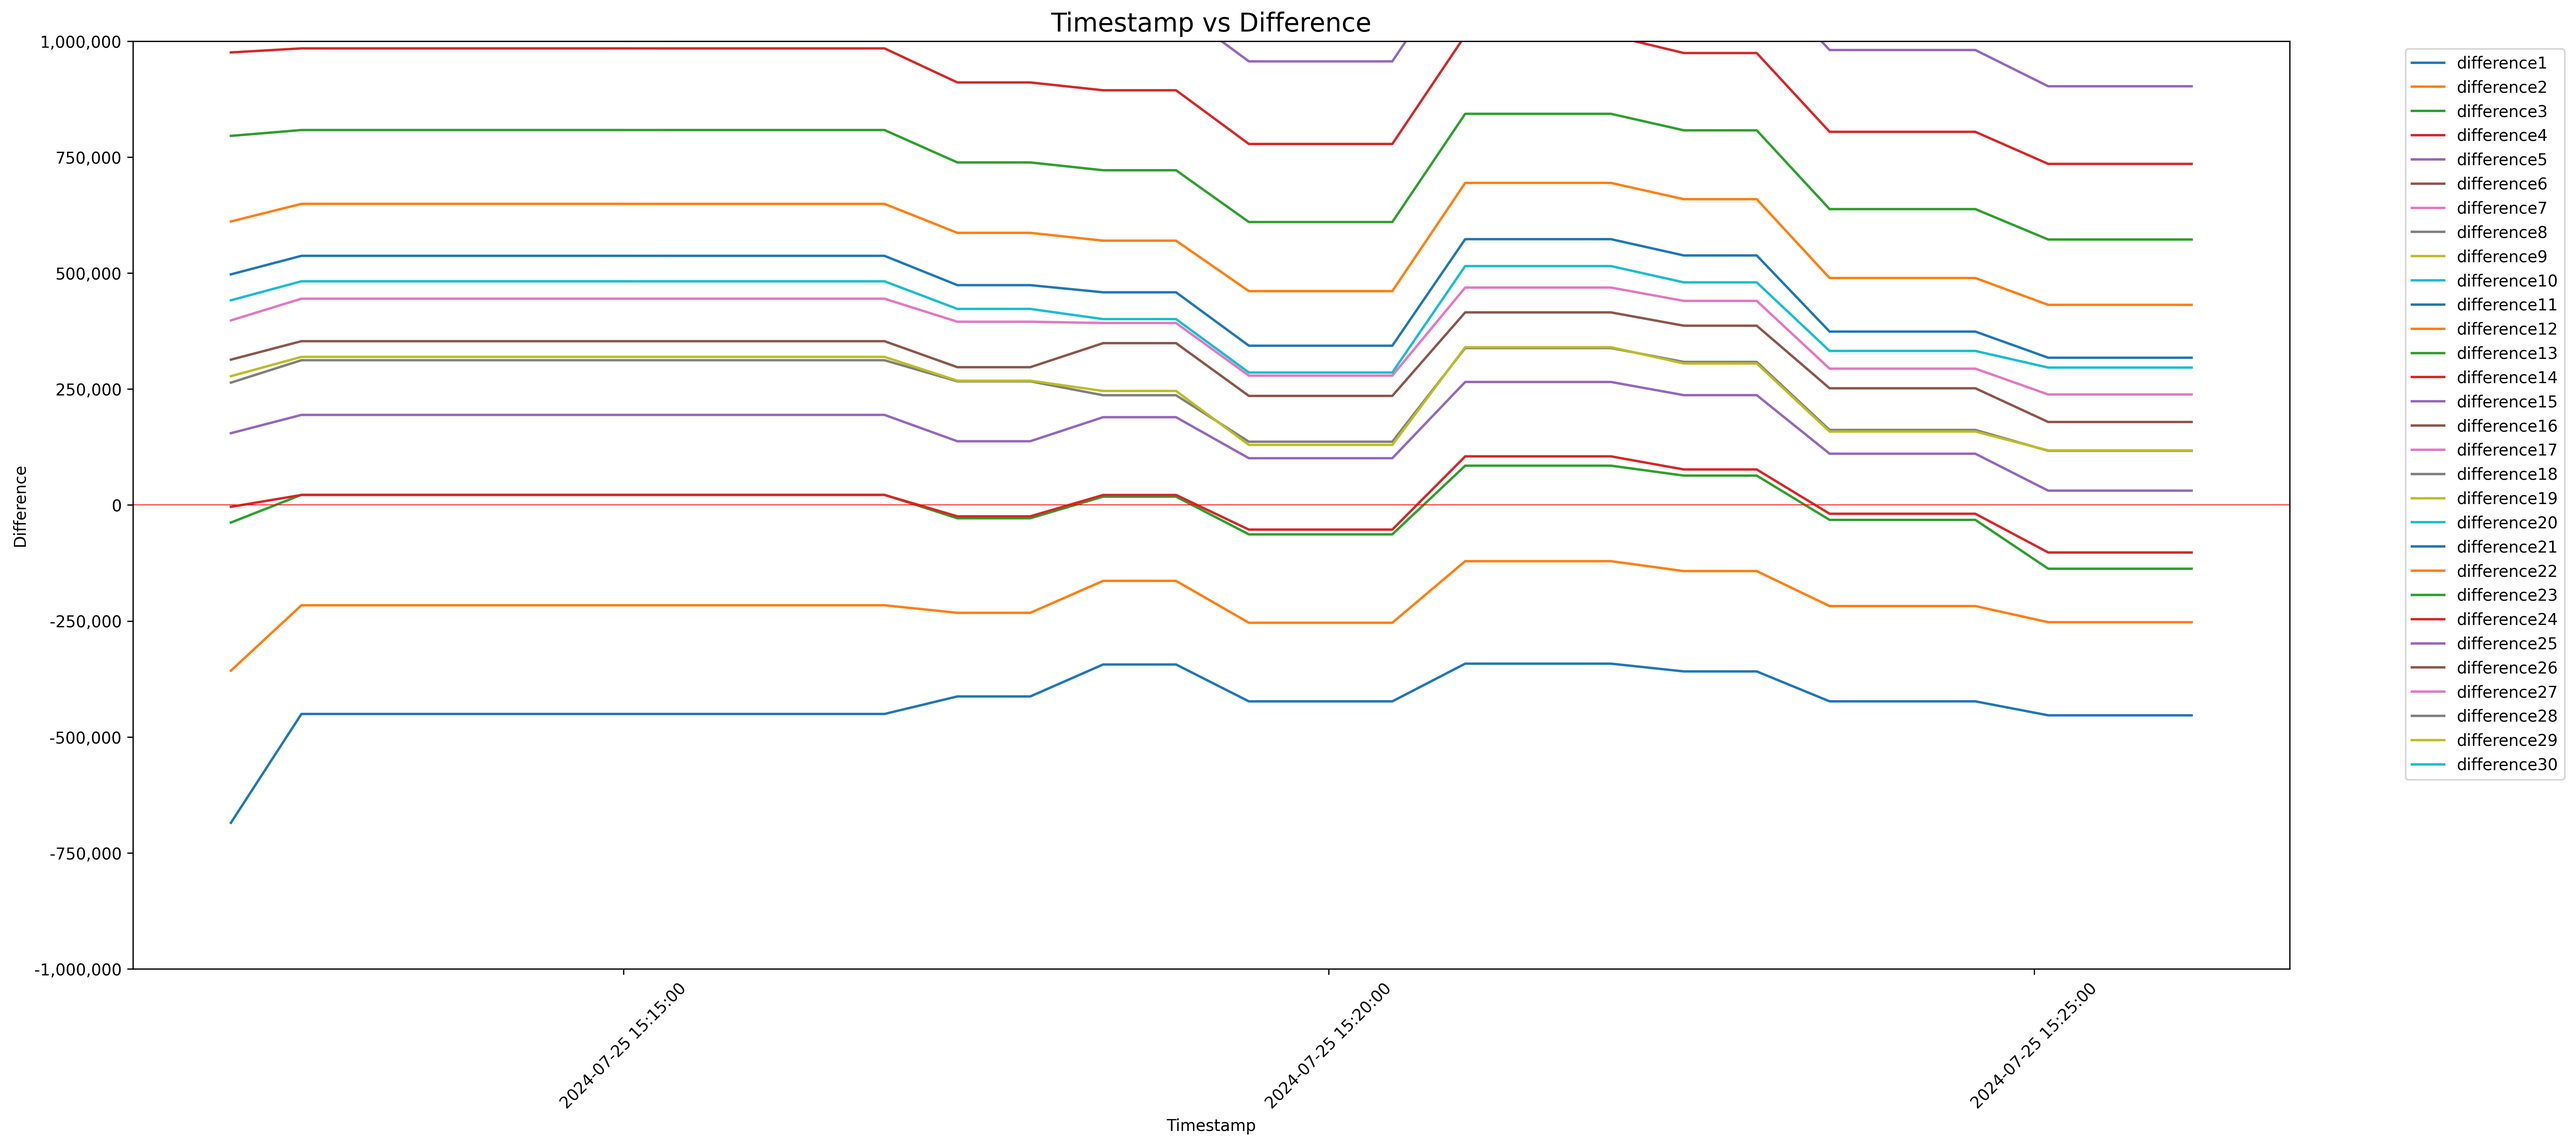
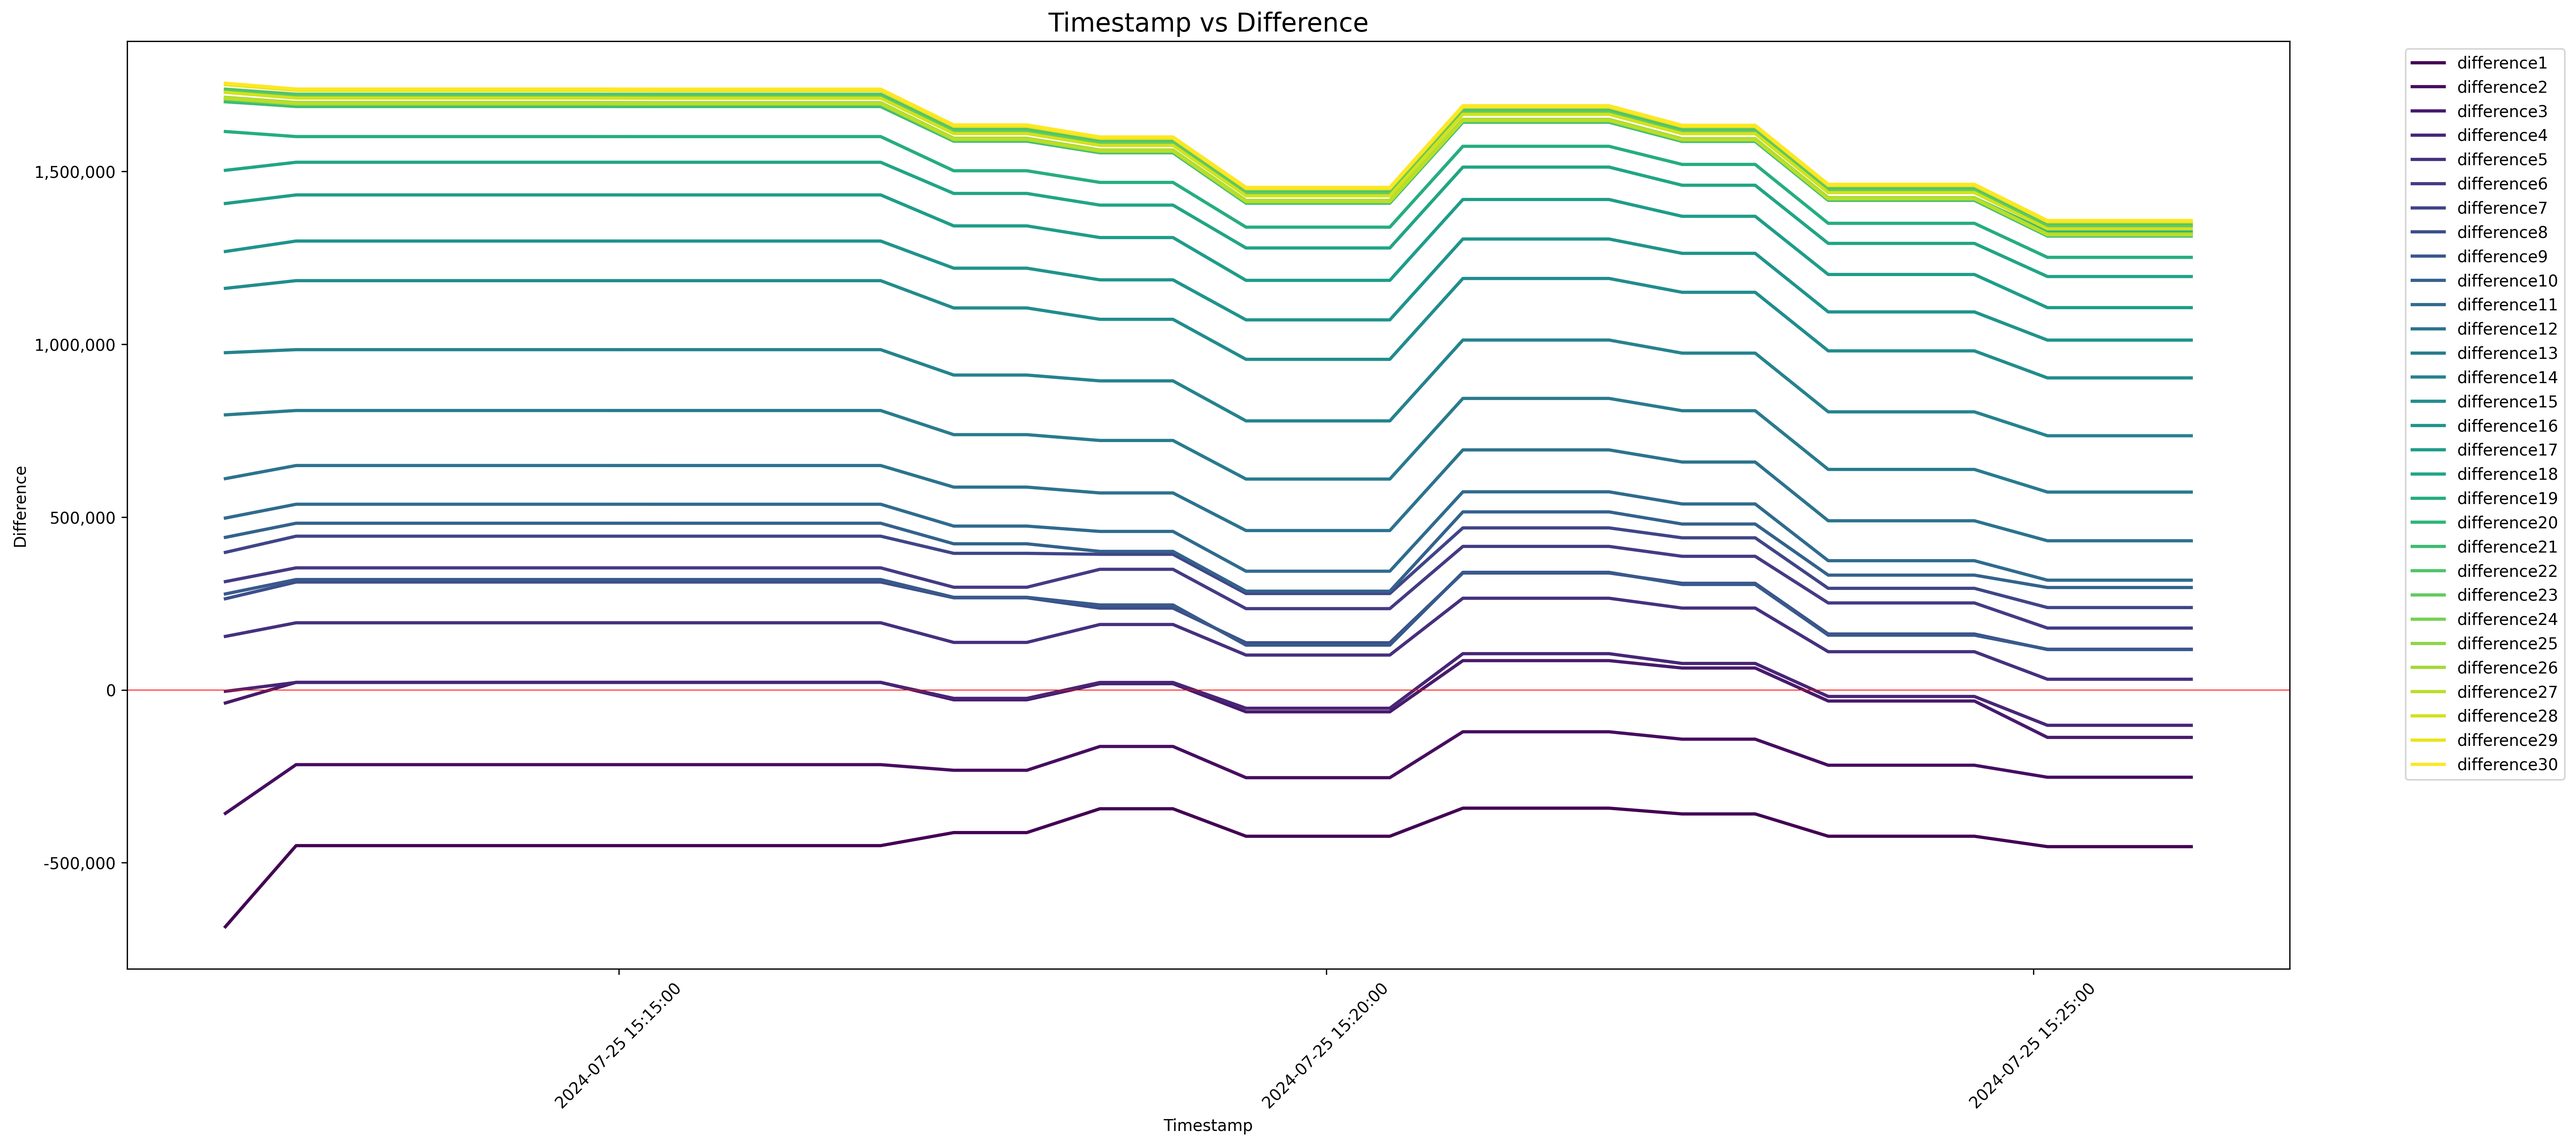
chart done

diff --git a/3.py b/3.py
@@ -3,6 +3,7 @@ import matplotlib.pyplot as plt
 from matplotlib.dates import DateFormatter
 import numpy as np
 from datetime import datetime
+import matplotlib.colors as mcolors
 
 # File name
 today_date = datetime.now().strftime('%Y-%m-%d')
@@ -18,20 +19,28 @@ df['Timestamp'] = pd.to_datetime(df['Timestamp'])
 # Select difference columns (from 32nd column to 6th from last)
 difference_columns = df.columns[31:-6]
 
+# Create a colormap
+cmap = plt.get_cmap('viridis')
+color_norm = mcolors.Normalize(vmin=0, vmax=len(difference_columns)-1)
+
 # Create the plot
 plt.figure(figsize=(20, 10))
 
-# Plot each difference column
-for column in difference_columns:
-    plt.plot(df['Timestamp'], df[column], label=column)
+# Plot each difference column with gradient color
+for i, column in enumerate(difference_columns):
+    color = cmap(color_norm(i))
+    plt.plot(df['Timestamp'], df[column], label=column, color=color, linewidth=2)
 
 # Customize the plot
 plt.title('Timestamp vs Difference', fontsize=16)
 plt.xlabel('Timestamp')
 plt.ylabel('Difference')
 
-# Set y-axis limits
-plt.ylim(-1000000, 1000000)
+# Automatically set y-axis limits with a small padding
+y_min = df[difference_columns].min().min()
+y_max = df[difference_columns].max().max()
+padding = (y_max - y_min) * 0.05  # 5% padding
+plt.ylim(y_min - padding, y_max + padding)
 
 # Format x-axis ticks as dates
 plt.gca().xaxis.set_major_formatter(DateFormatter('%Y-%m-%d %H:%M:%S'))
@@ -57,3 +66,4 @@ output_filename = f'realtime_pcr_data_{today_date}_expiry_{expiry_date}_graph.pn
 plt.savefig(output_filename, bbox_inches='tight', dpi=300)
 
 print(f"Graph saved as {output_filename}")
+print(f"Y-axis range: {y_min:.2f} to {y_max:.2f}")
